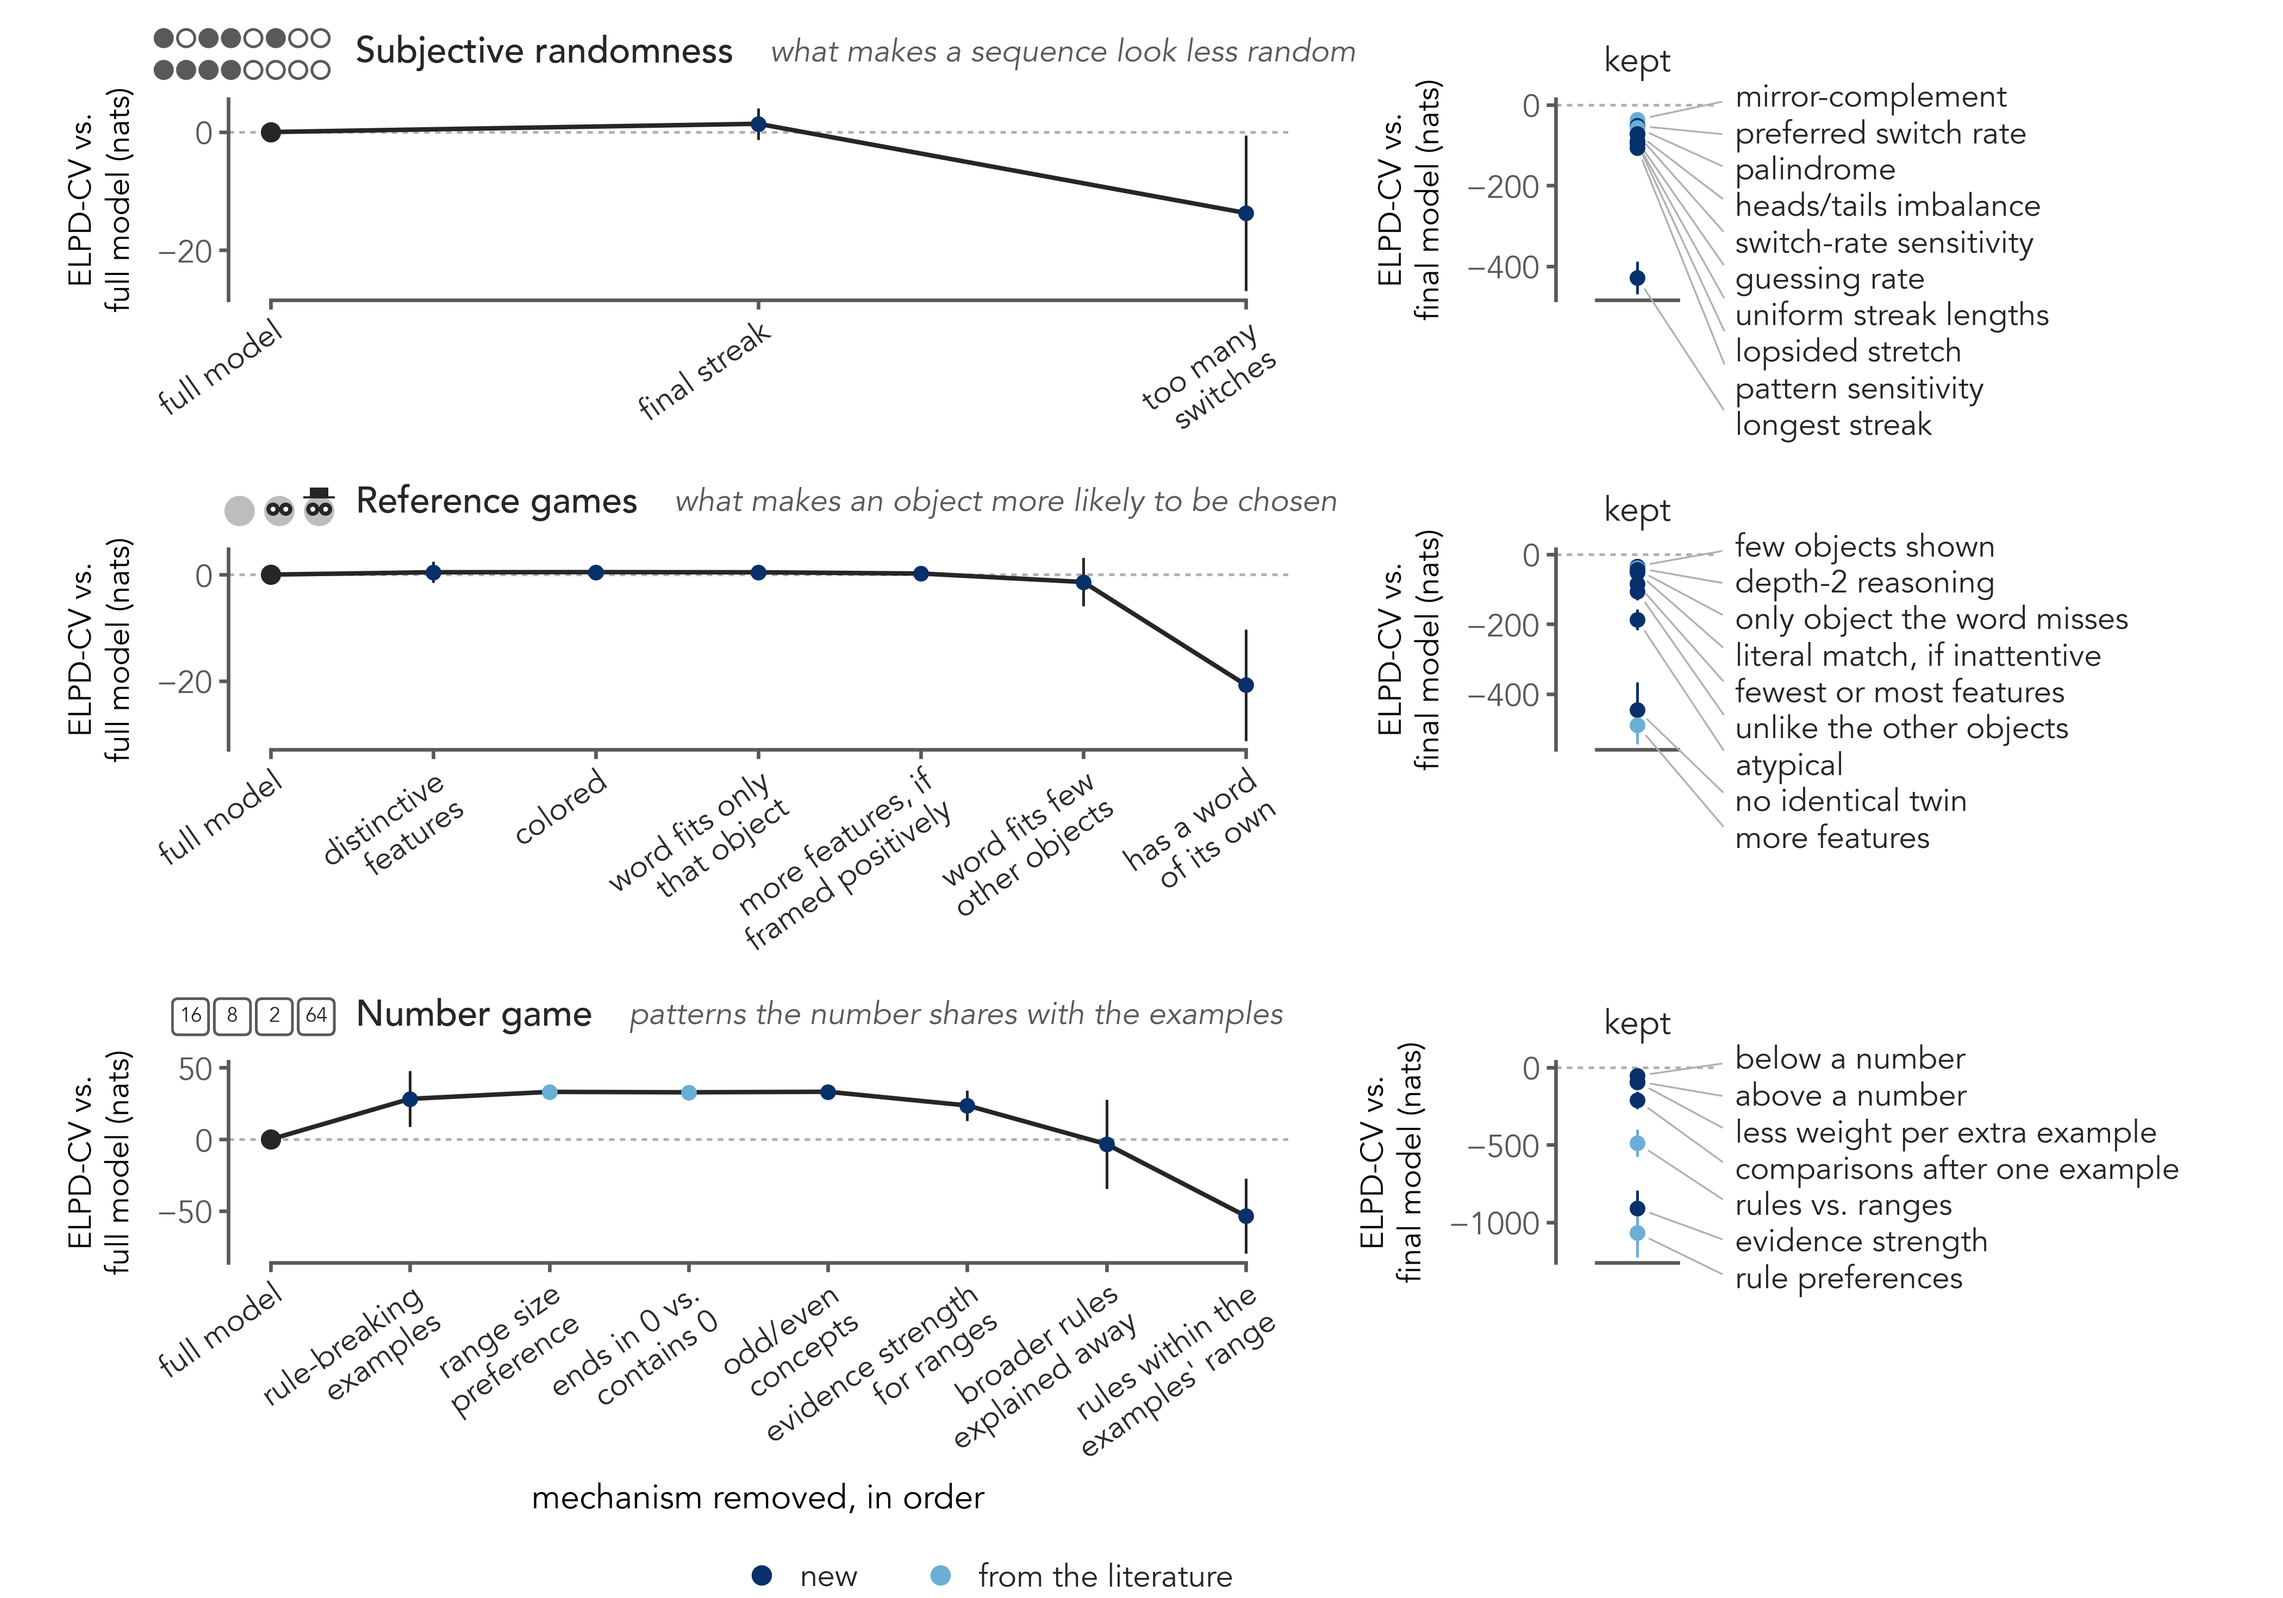
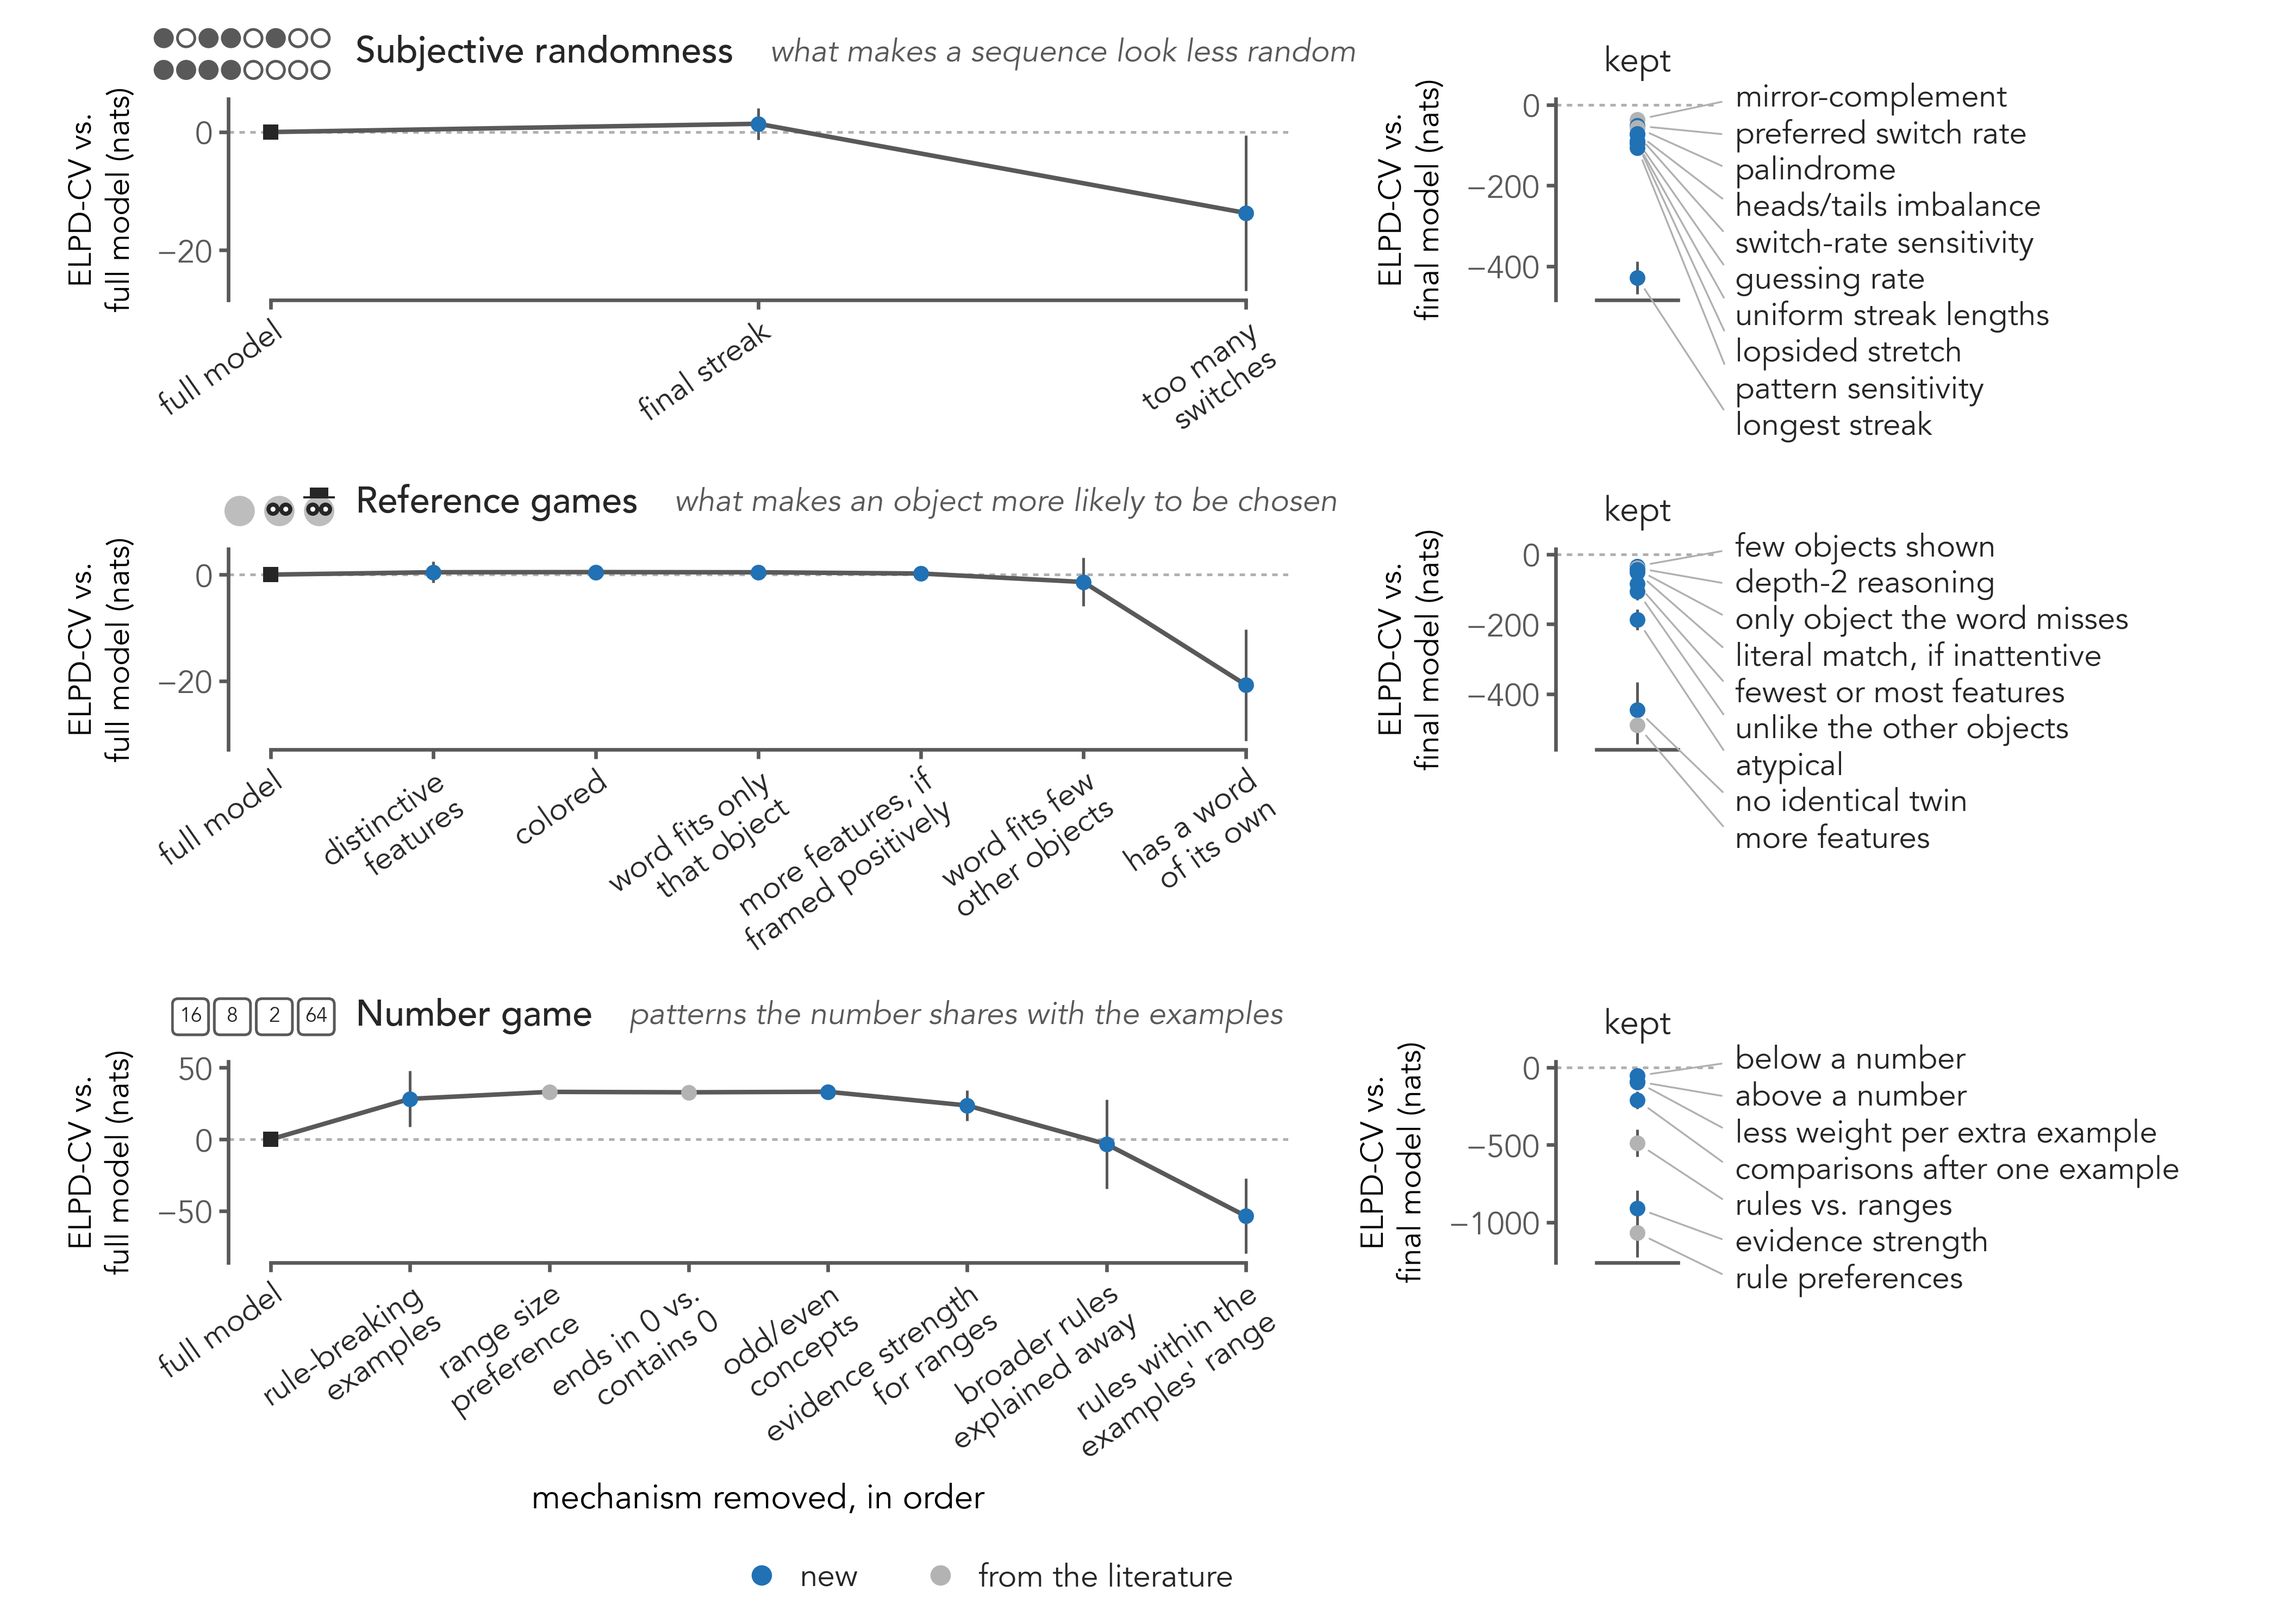
Figure 4: Figures 2-3's colours (discovered blue, seed grey), neutral path
- "new" points in fig3's BEST blue, "from the literature" in its SEED grey
  (imported, not copied), as Figures 2 and 3 encode discovered vs. seed.
- Path line and every error bar (path and kept column) in INK_2; the full model
  an INK square.
- LOG.md: the colour choice and why.

diff --git a/scripts/paper/figures/fig4.py b/scripts/paper/figures/fig4.py
@@ -21,10 +21,13 @@ import yaml
 from matplotlib.lines import Line2D
 from pyprojroot import here
 
+from scripts.paper.figures.fig3 import BEST, SEED
 from scripts.paper.figures.icons import add_title_icons
 from scripts.paper.figures.style import DPI, INK, INK_2, TITLE_FONT, TITLES
 
-COLOR_NEW, COLOR_START, PATH = "#08306b", "#6baed6", "#262626"
+# Figures 2 and 3's colours: blue for what auto-psych discovered, seed grey for what came from the literature;
+# the path and every error bar in a neutral that is neither
+COLOR_NEW, COLOR_START, PATH = BEST, SEED, INK_2
 NAME_PT, SMALL = 7.0, 7.0
 NAMES_IN, NAME_PITCH = 0.3, 1.15  # the kept names' offset from their column (inches), their spacing (line heights)
 LEFT, RIGHT, TICK_DEG = 0.04, 0.04, 35  # shares of the path's axis before the first step and past the last; the step names' angle  # PNAS: no text under 6 pt at the printed size
@@ -119,7 +122,7 @@ def draw_path(ax, path, names):
     for p in path[1:]:
         _, color, _ = style_of(names, p["dropped"])
         ax.scatter([p["n"]], [p["y"]], s=12, color=color, linewidths=0, zorder=4)
-    ax.scatter([n[0]], [0], s=12, color=PATH, zorder=4)
+    ax.scatter([n[0]], [0], s=12, color=INK, marker="s", linewidths=0, zorder=4)
     ax.axhline(0, color="#b0b0b0", lw=0.6, ls=(0, (2, 2)), zorder=0)  # the full model
     span = (n[0] - n[-1]) / (1 - LEFT - RIGHT)  # the axis's span, in steps
     ax.set_xlim(n[0] + LEFT * span, n[-1] - RIGHT * span)
@@ -148,7 +151,7 @@ def draw_kept(ax, kept, names):
     labels = []
     for k in kept:
         name, color, text = style_of(names, k["mechanism"])
-        ax.errorbar([xo], [k["y"]], yerr=[k["se"]], fmt="none", ecolor=color, elinewidth=0.6, zorder=2)
+        ax.errorbar([xo], [k["y"]], yerr=[k["se"]], fmt="none", ecolor=PATH, elinewidth=0.6, zorder=2)
         ax.scatter([xo], [k["y"]], s=12, color=color, linewidths=0, zorder=4)
         labels.append((k["y"], name, text))
     # the names in a column right of the axes, spread apart, a leader to each

diff --git a/LOG.md b/LOG.md
@@ -38,3 +38,8 @@ Entry format (newest at the bottom):
   counts for the caption: subjective randomness 15, reference games 16, number game 14. Name labels are in ink;
   only the points carry the new/literature colour (light-blue 7 pt text reads poorly). "kept" heads the column,
   above it, so leaders to names hanging below short axes never cross it.
+- Follow-up (2026-11-20): Encode the same thing with the same colour in every figure. Fig 4 now uses Figs 2-3's
+  scheme: blue `BEST` (#2171b5) for what auto-psych discovered, seed grey `SEED` (#b3b3b3) for what came from the
+  literature, both imported from fig3.py. The path line and all error bars are INK_2 and the full model is an
+  INK square. Why: two shades of one blue on a near-black line made the light points read as glitches. Ben
+  rejected filled/hollow (A) and blue/orange (B) variants.
